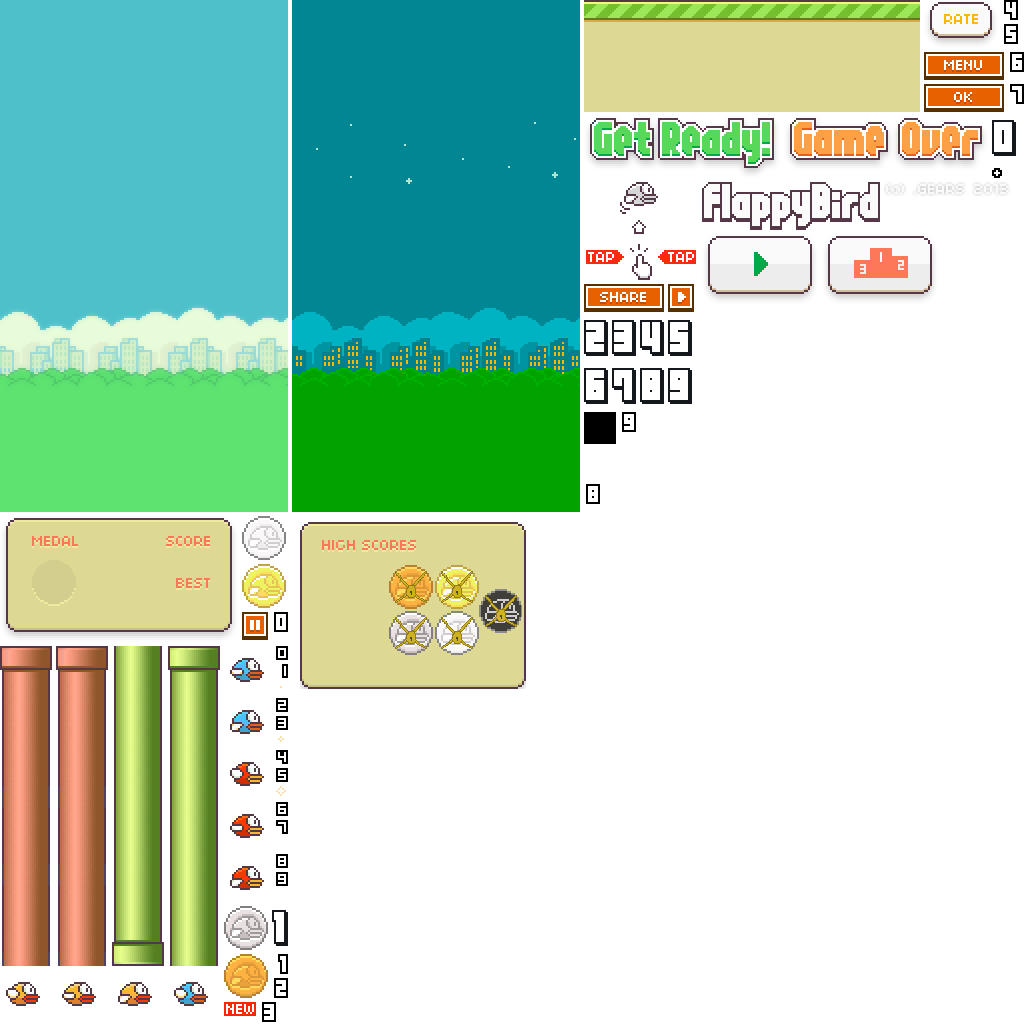
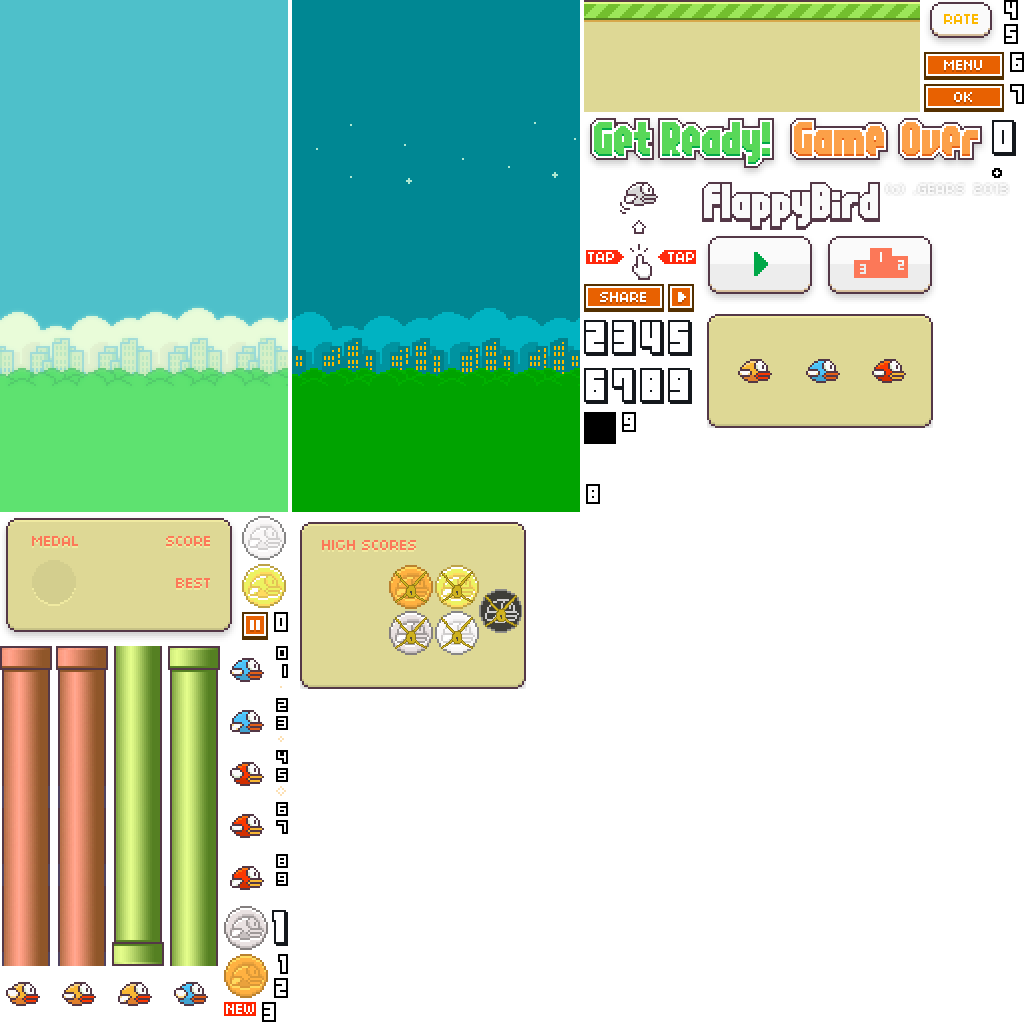
Added: skinPicker screen

Changed region(s): [[0.6875, 0.2812, 0.9375, 0.4375]]

diff --git a/core/src/com/flappybird/View/MyGDXGame.java b/core/src/com/flappybird/View/MyGDXGame.java
@@ -25,6 +25,7 @@ public class MyGDXGame extends ApplicationAdapter {
 	private Controller controller;
 	private DatabaseFB databaseFB;
 	private boolean newRecordAchieved;
+	private SkinPicker skinPickerClass;
 
 	private Atlas flappyBirdLogo;
 	private Atlas scorePic;
@@ -35,6 +36,10 @@ public class MyGDXGame extends ApplicationAdapter {
 	private Atlas getReady;
 	private Atlas highScores;
 	private Atlas newLabel;
+	private Atlas pause;
+	private Atlas resume;
+	private Atlas skinPicker;
+
 	private Medal medal;
 
 	@Override
@@ -47,6 +52,7 @@ public class MyGDXGame extends ApplicationAdapter {
 		obs = new Obstacles();
 		scoreFont = new Font();
 		controller = new Controller(this);
+		skinPickerClass = new SkinPicker();
 		Gdx.input.setInputProcessor(controller);
 		databaseFB = new DatabaseFB("score.db");
 		gameMode = GameMode.FIRSTVIEW;
@@ -120,6 +126,27 @@ public class MyGDXGame extends ApplicationAdapter {
 				(Gdx.graphics.getWidth() - 66) / 2 - 100,
 				(Gdx.graphics.getHeight() - 66) / 2 + 10
 		);
+		pause = new Atlas(
+				"atl/pause.atlas",
+				39,
+				42,
+				(Gdx.graphics.getWidth() - 39) - 10,
+				(Gdx.graphics.getHeight() - 42) - 10
+		);
+		resume = new Atlas(
+				"atl/resume.atlas",
+				39,
+				42,
+				(Gdx.graphics.getWidth() - 39) - 10,
+				(Gdx.graphics.getHeight() - 42) - 10
+		);
+		skinPicker = new Atlas(
+				"atl/skinpicker.atlas",
+				339,
+				171,
+				(Gdx.graphics.getWidth() - 339) / 2,
+				(Gdx.graphics.getHeight() - 171) / 2
+		);
 	}
 
 	/*
@@ -155,13 +182,10 @@ public class MyGDXGame extends ApplicationAdapter {
 	//todo medals unlock +
 	//todo new label +
 	//todo medals unlock in table records +
+	//todo skin picker +
 
-		//todo skin picker
-		//todo or
-		//todo меняющиеся скины рандомно
 
-		//todo music
-
+		//todo add sounds
 		//add drawing shit to other class in main
 
 		Gdx.gl.glClearColor(1, 1, 0, 1);
@@ -171,11 +195,11 @@ public class MyGDXGame extends ApplicationAdapter {
 			case FIRSTVIEW:
 				renderViewController();
 				break;
-			case MENU_RECORDS:
-				renderMenuRecords();
-				break;
 			case MENU:
 				renderMenu();
+				break;
+			case MENU_RECORDS:
+				renderMenuRecords();
 				break;
 			case GAME:
 				renderGame();
@@ -185,6 +209,9 @@ public class MyGDXGame extends ApplicationAdapter {
 				break;
 			case DEAD:
 				renderDead();
+				break;
+			case SKINS:
+				renderSkinsView();
 				break;
 		}
 		batch.end();
@@ -210,6 +237,15 @@ public class MyGDXGame extends ApplicationAdapter {
 //		shape.end();
 	}
 
+	private void renderSkinsView() {
+		bird.update();
+		background.draw();
+		ground.draw();
+		bird.draw();
+		skinPicker.draw();
+		resume.draw();
+	}
+
 	private void renderViewController() {
 		update();
 		background.draw();
@@ -227,6 +263,7 @@ public class MyGDXGame extends ApplicationAdapter {
 		bird.draw();
 		tap_tap.draw();
 		getReady.draw();
+		pause.draw();
 	}
 
 	private void renderGame() {
@@ -297,8 +334,8 @@ public class MyGDXGame extends ApplicationAdapter {
 
 	private void drawTopFiveRecords() {
 		ArrayList<Integer> r = databaseFB.getTopFiveFromTable();
-
 		int offset = Gdx.graphics.getHeight() / 2 + 100;
+
 		for (Integer i : r) {
 			scoreFont.draw(
 					Integer.toString(i),
@@ -341,6 +378,7 @@ public class MyGDXGame extends ApplicationAdapter {
 		highScores.dispose();
 		newLabel.dispose();
 		medal.dispose();
+		skinPicker.dispose();
 	}
 
 	public Background getBackground() {
@@ -366,6 +404,7 @@ public class MyGDXGame extends ApplicationAdapter {
 	public static GameMode getGameMode() {
 		return gameMode;
 	}
+
 	public void setGameMode(GameMode mode) {
 		gameMode = mode;
 	}
@@ -401,4 +440,12 @@ public class MyGDXGame extends ApplicationAdapter {
 	public int getScore() {
 		return score;
 	}
+
+	public int getHighScore() { return databaseFB.getMaxScoreFromTable(); }
+
+	public Medal getMedal() { return medal; }
+
+	public Atlas getPause() {return pause;}
+	public Atlas getResume() {return resume;}
+	public SkinPicker getSkinPickerClass() {return skinPickerClass;}
 }

diff --git a/core/src/com/flappybird/Controller/Controller.java b/core/src/com/flappybird/Controller/Controller.java
@@ -30,11 +30,15 @@ public class Controller implements InputProcessor {
             }
         } else if (MyGDXGame.getGameMode() == GameMode.DEAD) {
             if (keycode == Input.Keys.ENTER) {
-                game.getBird().default_();
-                game.getObs().default_();
-                game.setGameMode(GameMode.MENU);
-                game.setScore(0);
+                resetBird();
             }
+        }
+        if (keycode == Input.Keys.NUM_1) {
+            game.getBird().setNewSkin("orange");
+        } else if (keycode == Input.Keys.NUM_2) {
+            game.getBird().setNewSkin("blue");
+        } else if (keycode == Input.Keys.NUM_3) {
+            game.getBird().setNewSkin("red");
         }
         return false;
     }
@@ -61,21 +65,22 @@ public class Controller implements InputProcessor {
                     game.setGameMode(GameMode.MENU_RECORDS);
                 }
                 break;
+            case MENU:
+                if (game.getPause().isClicked(Gdx.input.getX(),Gdx.graphics.getHeight() - Gdx.input.getY())) {
+                    game.setGameMode(GameMode.SKINS);
+                } else {
+                    game.setGameMode(GameMode.GAME);
+                    game.getBird().Fly();
+                }
+                break;
             case MENU_RECORDS:
                 if (game.getPlayPic().isClicked(Gdx.input.getX(), Gdx.graphics.getHeight() - Gdx.input.getY())) {
                     game.setGameMode(GameMode.FIRSTVIEW);
                 }
                 break;
-            case MENU:
-                game.setGameMode(GameMode.GAME);
-                game.getBird().Fly();
-                break;
             case DEAD:
                 if (game.getPlayPic().isClicked(Gdx.input.getX(), Gdx.graphics.getHeight() - Gdx.input.getY())) {
-                    game.getBird().default_();
-                    game.getObs().default_();
-                    game.setGameMode(GameMode.MENU);
-                    game.setScore(0);
+                    resetBird();
                 } else if (game.getRecordsPic().isClicked(Gdx.input.getX(), Gdx.graphics.getHeight() - Gdx.input.getY())) {
                     game.setGameMode(GameMode.RECORDS);
                 }
@@ -85,6 +90,17 @@ public class Controller implements InputProcessor {
                     game.setGameMode(GameMode.DEAD);
                 }
                 break;
+            case SKINS:
+                if (game.getResume().isClicked(Gdx.input.getX(), Gdx.graphics.getHeight() - Gdx.input.getY())) {
+                    resetBird();
+                }
+                if (game.getSkinPickerClass().isOrangeClicked(Gdx.input.getX(), Gdx.graphics.getHeight() - Gdx.input.getY())) {
+                    game.getBird().setNewSkin("orange");
+                } else if (game.getSkinPickerClass().isBlueClicked(Gdx.input.getX(), Gdx.graphics.getHeight() - Gdx.input.getY())) {
+                    game.getBird().setNewSkin("blue");
+                } else if (game.getSkinPickerClass().isRedClicked(Gdx.input.getX(), Gdx.graphics.getHeight() - Gdx.input.getY())) {
+                    game.getBird().setNewSkin("red");
+                }
         }
         return false;
     }
@@ -110,5 +126,12 @@ public class Controller implements InputProcessor {
     @Override
     public boolean scrolled(int amount) {
         return false;
+    }
+
+    private void resetBird() {
+        game.getBird().default_();
+        game.getObs().default_();
+        game.setGameMode(GameMode.MENU);
+        game.setScore(0);
     }
 }

diff --git a/core/src/com/flappybird/Model/Bird.java b/core/src/com/flappybird/Model/Bird.java
@@ -7,6 +7,8 @@ import com.badlogic.gdx.math.Circle;
 import com.badlogic.gdx.math.Vector2;
 import com.flappybird.View.MyGDXGame;
 
+import java.util.Objects;
+
 
 public class Bird implements Drawable {
 
@@ -50,6 +52,17 @@ public class Bird implements Drawable {
         pos = new Vector2(START_X, START_Y);
     }
 
+    public void setNewSkin(String skinName) {
+        if (Objects.equals(skinName, "orange")) {
+            birdAnimAtlas = new TextureAtlas(Gdx.files.internal("atl/bird.atlas"));
+        } else if (Objects.equals(skinName, "blue")) {
+            birdAnimAtlas = new TextureAtlas(Gdx.files.internal("atl/birdblue.atlas"));
+        } else if (Objects.equals(skinName, "red")) {
+            birdAnimAtlas = new TextureAtlas(Gdx.files.internal("atl/birdred.atlas"));
+        }
+        birdAnimation = new Animation<TextureAtlas.AtlasRegion>(1/10f, birdAnimAtlas.getRegions());
+    }
+
     public void draw() {
         elapsedTime += Gdx.graphics.getDeltaTime();
         MyGDXGame.batch.draw(
@@ -68,7 +81,7 @@ public class Bird implements Drawable {
 
     public void update() {
         if (MyGDXGame.getGameMode() == GameMode.FIRSTVIEW) {
-            birdAnimation.setFrameDuration(1 / 10f);
+            turnOnAnimation();
             if (falling) {
                 pos.y -= 1.5;
             } else {
@@ -80,7 +93,7 @@ public class Bird implements Drawable {
                 falling = true;
             }
         } else if (MyGDXGame.getGameMode() == GameMode.MENU) {
-            birdAnimation.setFrameDuration(1 / 10f);
+            turnOnAnimation();
             if (falling) {
                 pos.y -= 1.5;
             } else {
@@ -99,7 +112,7 @@ public class Bird implements Drawable {
                 game.setGameMode(GameMode.DEAD);
             }
         } else if (MyGDXGame.getGameMode() == GameMode.DEAD || MyGDXGame.getGameMode() == GameMode.RECORDS) {
-            birdAnimation.setFrameDuration(100000);
+            turnOffAnimation();
             if (pos.y + vy > Ground.getHeight()) {
                 vy += gravity;
                 pos.y += vy;
@@ -110,6 +123,10 @@ public class Bird implements Drawable {
                 float off = percent * BIRD_HEIGHT / 100;
                 pos.y = Ground.getHeight() - off;
             }
+        } else if (MyGDXGame.getGameMode() == GameMode.SKINS) {
+            turnOffAnimation();
+            pos.x = (Gdx.graphics.getWidth() - BIRD_WIDTH) / 2;
+            pos.y = (Gdx.graphics.getHeight() - BIRD_HEIGHT) / 2 - 150;
         }
         updateCircle();
     }
@@ -120,6 +137,14 @@ public class Bird implements Drawable {
                 pos.y + (BIRD_HEIGHT / 2),
                 25.0f
         );
+    }
+
+    private void turnOffAnimation() {
+        birdAnimation.setFrameDuration(100000);
+    }
+
+    private void turnOnAnimation() {
+        birdAnimation.setFrameDuration(1 / 10f);
     }
 
     public void Fly() {

diff --git a/core/src/com/flappybird/Model/SkinPicker.java b/core/src/com/flappybird/Model/SkinPicker.java
@@ -1,0 +1,46 @@
+package com.flappybird.Model;
+
+import com.badlogic.gdx.Gdx;
+import com.badlogic.gdx.math.Vector2;
+
+public class SkinPicker {
+
+    private Button orange;
+    private Button blue;
+    private Button red;
+
+    class Button {
+
+        private final int WIDTH = 51;
+        private final int HEIGHT = 36;
+
+        private Vector2 pos;
+        private Vector2 wh;
+
+        Button(int x, int y) {
+            pos = new Vector2(x, y);
+            wh = new Vector2(WIDTH, HEIGHT);
+        }
+    }
+
+    public SkinPicker() {
+        orange = new Button((Gdx.graphics.getWidth() - 51) / 2 - 98, (Gdx.graphics.getHeight() - 36) / 2);
+        blue = new Button((Gdx.graphics.getWidth() - 51) / 2 + 4, (Gdx.graphics.getHeight() - 36) / 2);
+        red = new Button((Gdx.graphics.getWidth() - 51) / 2 + 103, (Gdx.graphics.getHeight() - 36) / 2);
+    }
+
+    public boolean isOrangeClicked(float x, float y) {
+        return (x >= orange.pos.x && x <= orange.pos.x + orange.wh.x
+                && y >= orange.pos.y && y <= orange.pos.y + orange.wh.y);
+    }
+
+    public boolean isBlueClicked(float x, float y) {
+        return (x >= blue.pos.x && x <= blue.pos.x + blue.wh.x
+                && y >= blue.pos.y && y <= blue.pos.y + blue.wh.y);
+    }
+
+    public boolean isRedClicked(float x, float y) {
+        return (x >= red.pos.x && x <= red.pos.x + red.wh.x
+                && y >= red.pos.y && y <= red.pos.y + red.wh.y);
+    }
+}

diff --git a/core/src/com/flappybird/Model/GameMode.java b/core/src/com/flappybird/Model/GameMode.java
@@ -4,6 +4,7 @@ public enum GameMode {
     FIRSTVIEW,
     MENU,
     MENU_RECORDS,
+    SKINS,
     GAME,
     RECORDS,
     DEAD
